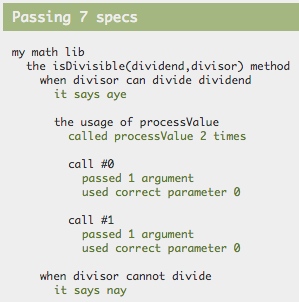
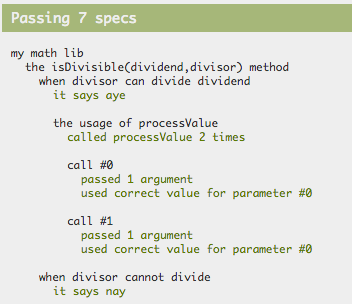
tweak

diff --git a/posts/writing-jasmine-tests-in-a-json-format/index.html b/posts/writing-jasmine-tests-in-a-json-format/index.html
@@ -254,7 +254,7 @@ myMathLib.isDivisible(<span class="number">12</span>,<span class="number">3</spa
                                                 expect((lib[stubname].getCall(n)||{args:[]}).args.length).toEqual(args.length);
                                             });
                                             _.each(args,<span class="function"><span class="keyword">function</span><span class="params">(arg,a)</span>{</span>
-                                                it(<span class="string">"used correct parameter "</span>+a,<span class="function"><span class="keyword">function</span><span class="params">()</span>{</span>
+                                                it(<span class="string">"used correct value for parameter #"</span>+a,<span class="function"><span class="keyword">function</span><span class="params">()</span>{</span>
                                                     <span class="keyword">var</span> usedargs = (lib[stubname].getCall(n)||{args:[]}).args;
                                                     expect((I?I.List(usedargs).toJS():usedargs)[a]).toEqual(givenargs[arg]||arg);
                                                 });

diff --git a/about/taglist/index.html b/about/taglist/index.html
@@ -94,6 +94,8 @@ A list of all tags used in this blog:
       
       <span><a href='../../tags/travis/'>travis (1)</a></span>
       
+      <span><a href='../../tags/immutablejs/'>immutablejs (1)</a></span>
+      
       <span><a href='../../tags/drawingpad/'>drawingpad (1)</a></span>
       
       <span><a href='../../tags/omnigraffle/'>omnigraffle (1)</a></span>
@@ -105,8 +107,6 @@ A list of all tags used in this blog:
       <span><a href='../../tags/instaviz/'>instaviz (1)</a></span>
       
       <span><a href='../../tags/ithoughts/'>ithoughts (1)</a></span>
-      
-      <span><a href='../../tags/immutablejs/'>immutablejs (1)</a></span>
       
       <span><a href='../../tags/box2d/'>box2d (1)</a></span>
       

diff --git a/_source/files/posts/jasminetestingpattern.md b/_source/files/posts/jasminetestingpattern.md
@@ -219,7 +219,7 @@ function tester(description,lib,methodtests,I){
 												expect((lib[stubname].getCall(n)||{args:[]}).args.length).toEqual(args.length);
 											});
 											_.each(args,function(arg,a){
-												it("used correct parameter "+a,function(){
+												it("used correct value for parameter #"+a,function(){
 													var usedargs = (lib[stubname].getCall(n)||{args:[]}).args;
 													expect((I?I.List(usedargs).toJS():usedargs)[a]).toEqual(givenargs[arg]||arg);
 												});
